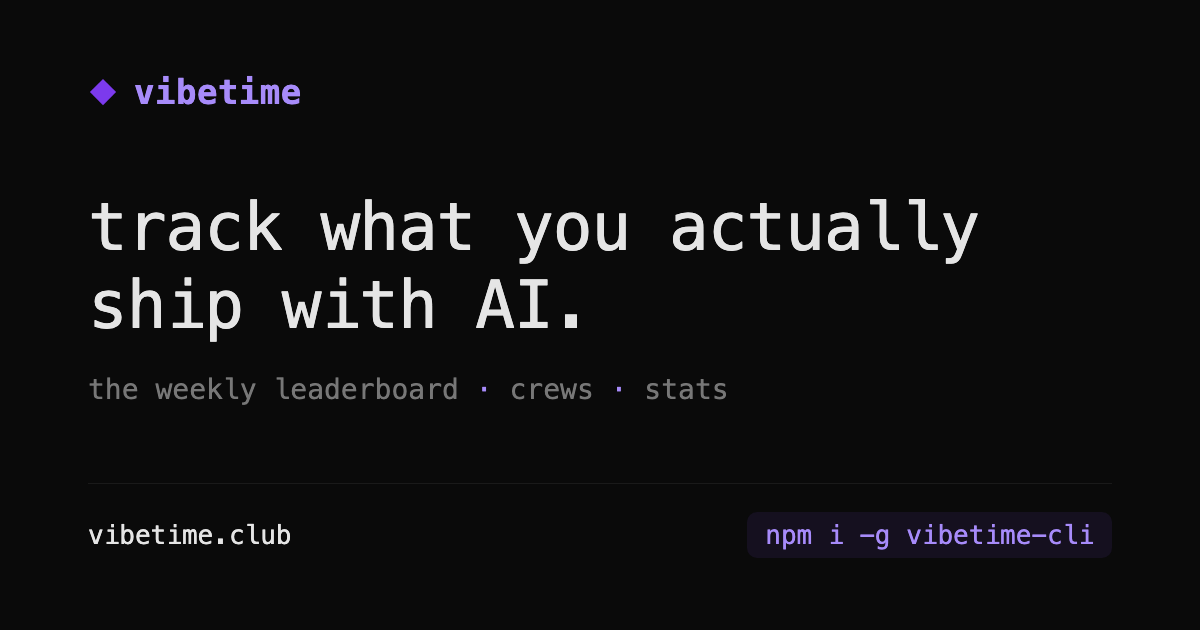
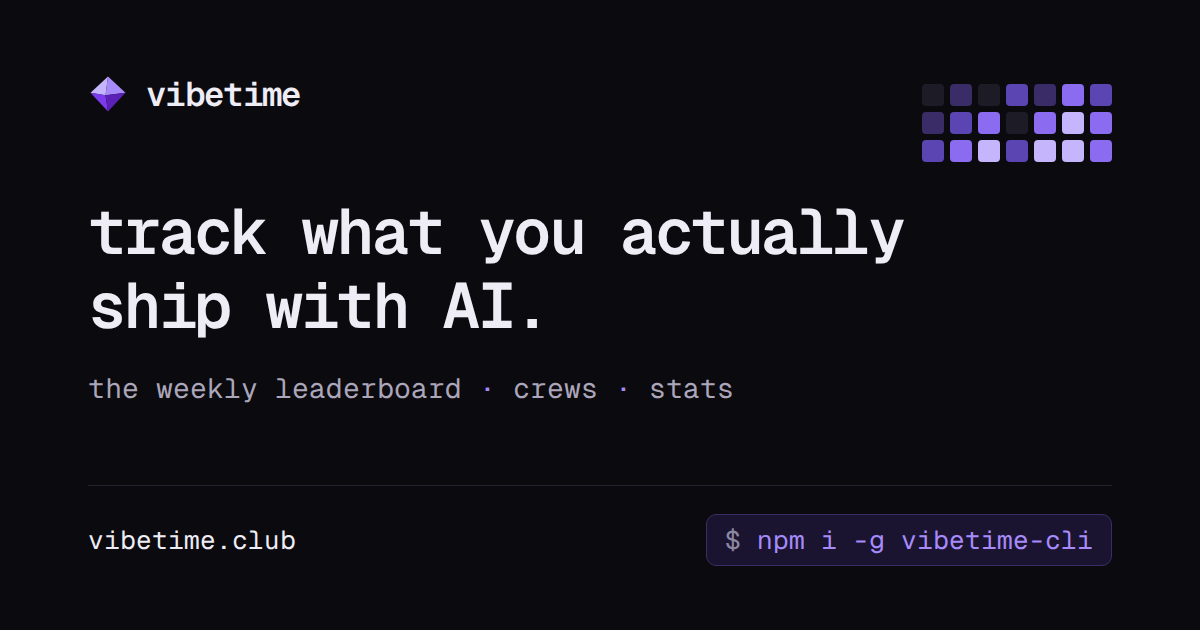
redraw the link preview card in the new design
tools/og-card.html now uses Geist Mono from server/assets, the faceted gem, the site's dark tokens and a heat block, and server/assets/og.png is regenerated from it. The regenerate command gains --allow-file-access-from-files so headless Chrome can load the font file.

diff --git a/tools/og-card.html b/tools/og-card.html
@@ -2,29 +2,39 @@
 <!--
   The link-preview image for every vibetime.club page. Regenerate with:
   "/Applications/Google Chrome.app/Contents/MacOS/Google Chrome" --headless --hide-scrollbars \
-    --window-size=1200,630 --screenshot=server/assets/og.png tools/og-card.html
+    --allow-file-access-from-files --window-size=1200,630 \
+    --screenshot=server/assets/og.png tools/og-card.html
+  The flag lets the page load the site's own font from server/assets.
 -->
 <html lang="en">
 <head>
 <meta charset="utf-8">
 <style>
+  @font-face { font-family: "Geist Mono"; src: url(../server/assets/geist-mono.woff2) format("woff2"); font-weight: 100 900; }
   * { box-sizing: border-box; margin: 0; }
   html, body { width: 1200px; height: 630px; overflow: hidden; }
-  body { background: #0a0a0a; color: #e5e5e5; font-family: ui-monospace, SFMono-Regular, Menlo, monospace; padding: 72px 88px; display: flex; flex-direction: column; }
-  .brand { color: #a78bfa; font-size: 34px; font-weight: 600; letter-spacing: 0.5px; display: flex; align-items: center; gap: 16px; }
-  .brand svg { width: 30px; height: 30px; }
-  h1 { font-size: 66px; font-weight: 500; line-height: 1.18; letter-spacing: -1px; margin-top: auto; max-width: 960px; }
-  .places { color: #777; font-size: 28px; margin-top: 28px; }
-  .places b { color: #a78bfa; font-weight: 400; }
-  .foot { margin-top: auto; display: flex; justify-content: space-between; align-items: center; padding-top: 28px; border-top: 1px solid #1a1a1a; font-size: 26px; }
-  .url { color: #e5e5e5; }
-  .cmd { color: #a78bfa; background: #15101f; padding: 8px 18px; border-radius: 10px; }
+  body { background: #0B0A0F; color: #EEECF4; font-family: "Geist Mono", ui-monospace, monospace; padding: 72px 88px 64px; display: flex; flex-direction: column; -webkit-font-smoothing: antialiased; }
+  .brand { display: flex; align-items: center; gap: 18px; font-size: 34px; font-weight: 600; letter-spacing: -0.02em; }
+  h1 { margin-top: auto; max-width: 900px; font-size: 64px; font-weight: 600; line-height: 1.15; letter-spacing: -0.04em; }
+  .places { margin-top: 28px; color: #ABA6BA; font-size: 28px; }
+  .places b { color: #A78BFA; font-weight: 400; }
+  .heat { position: absolute; top: 84px; right: 88px; display: grid; grid-template-columns: repeat(7, 22px); gap: 6px; }
+  .heat i { width: 22px; height: 22px; border-radius: 4px; background: #1D1B26; }
+  .heat .h1 { background: #3A2C66; } .heat .h2 { background: #5B45B3; } .heat .h3 { background: #8B6CF0; } .heat .h4 { background: #C4B5FD; }
+  .foot { margin-top: auto; display: flex; justify-content: space-between; align-items: center; padding-top: 28px; border-top: 1px solid #24212E; font-size: 26px; }
+  .cmd { color: #A78BFA; background: #1A1430; border: 1px solid #3B2D63; padding: 8px 18px; border-radius: 10px; }
+  .cmd span { color: #8C87A0; }
 </style>
 </head>
 <body>
-  <div class="brand"><svg viewBox="0 0 64 64" aria-hidden="true"><path d="M32 4 60 32 32 60 4 32Z" fill="#7c3aed"/></svg>vibetime</div>
+  <div class="brand"><svg width="40" height="40" viewBox="0 0 64 64" aria-hidden="true"><path fill="#C4B5FD" d="M32 4 4 30 28 34Z"/><path fill="#A78BFA" d="M32 4 28 34 60 30Z"/><path fill="#7C3AED" d="M4 30 32 60 28 34Z"/><path fill="#5B21B6" d="M28 34 32 60 60 30Z"/></svg>vibetime</div>
+  <div class="heat" aria-hidden="true">
+    <i></i><i class="h1"></i><i></i><i class="h2"></i><i class="h1"></i><i class="h3"></i><i class="h2"></i>
+    <i class="h1"></i><i class="h2"></i><i class="h3"></i><i></i><i class="h3"></i><i class="h4"></i><i class="h3"></i>
+    <i class="h2"></i><i class="h3"></i><i class="h4"></i><i class="h2"></i><i class="h4"></i><i class="h4"></i><i class="h3"></i>
+  </div>
   <h1>track what you actually ship with AI.</h1>
   <p class="places">the weekly leaderboard <b>·</b> crews <b>·</b> stats</p>
-  <div class="foot"><span class="url">vibetime.club</span><span class="cmd">npm i -g vibetime-cli</span></div>
+  <div class="foot"><span>vibetime.club</span><span class="cmd"><span>$ </span>npm i -g vibetime-cli</span></div>
 </body>
 </html>
